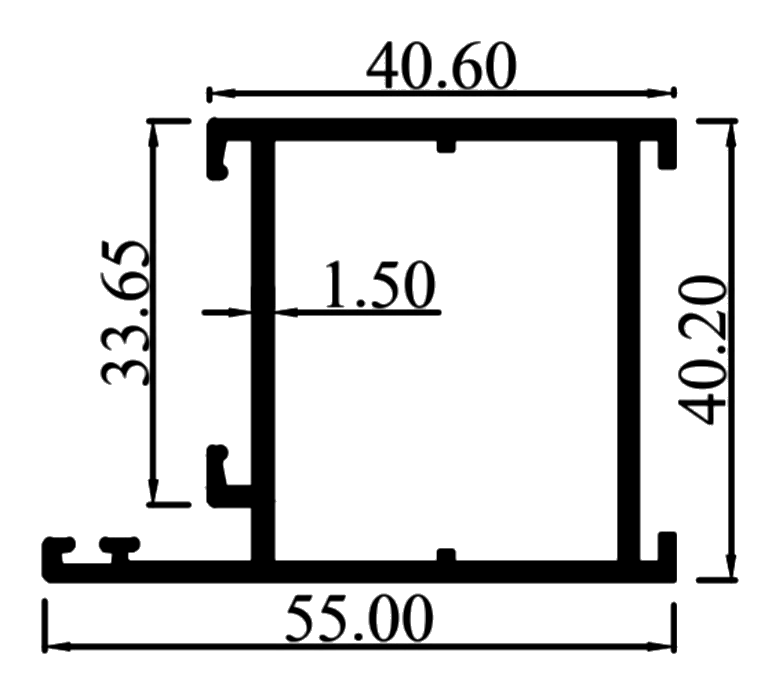
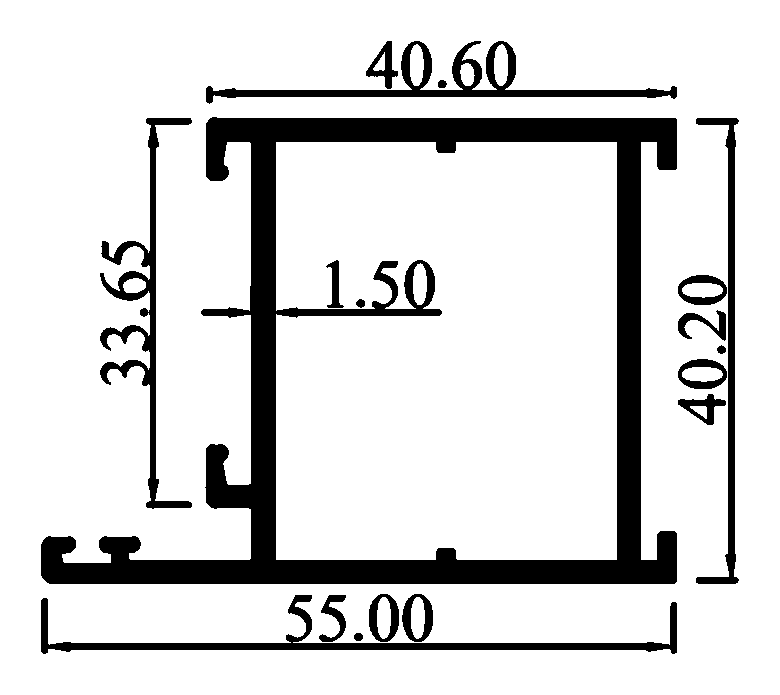
Phones get new drawings; drawings in solid thin black
- The offline worker answered /sections/ pictures from its cache forever,
  so phones kept showing the old pink and cut-off drawings after every
  update. Drawing URLs now carry a version (?v=4) and the worker's cache
  is renamed, which deletes the old copies on the next open.
- Every drawing is re-rendered with thin lines in solid black — no grey
  edges — from the catalogue originals (and the founder's Z-section and
  chaukhat pages).

Claude-Session: https://claude.ai/code/session_011PUPxMAAzzLueH72U7EBRP

diff --git a/components/section-profiles.tsx b/components/section-profiles.tsx
@@ -271,9 +271,13 @@ export function hasImage(sectionId: string): boolean {
   return SECTION_IMAGES.has(IMAGE_OF[sectionId] ?? sectionId);
 }
 
+/** Raise whenever a drawing in /public/sections changes — phones keep the
+ *  pictures offline, and a new version is a new URL they have not cached. */
+const DRAWINGS_VERSION = 4;
+
 /** The picture file for a section. */
 export function imageSrc(sectionId: string): string {
-  return `/sections/${IMAGE_OF[sectionId] ?? sectionId}.png`;
+  return `/sections/${IMAGE_OF[sectionId] ?? sectionId}.png?v=${DRAWINGS_VERSION}`;
 }
 
 /* ————————————————— compact profile (table cells) ————————————————— */

diff --git a/app/page.tsx b/app/page.tsx
@@ -482,9 +482,9 @@ function sample(type: OpeningType, o: Opts): JobItem {
 }
 
 const SYSTEM_INFO: Record<WinSys, { img: string; sub: string }> = {
-  normal: { img: "/sections/2t_top.png", sub: "18 mm · most common" },
-  domal: { img: "/sections/domal_frame.png", sub: "27 mm · premium" },
-  z_section: { img: "/sections/z_outer_40.png", sub: "Hinged, opens out" },
+  normal: { img: imageSrc("2t_top"), sub: "18 mm · most common" },
+  domal: { img: imageSrc("domal_frame"), sub: "27 mm · premium" },
+  z_section: { img: imageSrc("z_outer_40"), sub: "Hinged, opens out" },
 };
 
 /** One line of the size list: width, height and how many of that size —

diff --git a/public/sw.js b/public/sw.js
@@ -4,7 +4,10 @@
  *  - pages: network first (always the latest deploy), cached copy when offline
  *  - hashed build files and section images: cache first (they never change)
  */
-const CACHE = "fabriq-v1";
+// Bump on every change to /sections/: the old cache (and its stale
+// drawings) is deleted on activate. Drawing URLs also carry ?v=, so a new
+// drawing is a new URL and can never be answered from an old copy.
+const CACHE = "fabriq-v2";
 
 self.addEventListener("install", () => self.skipWaiting());
 
